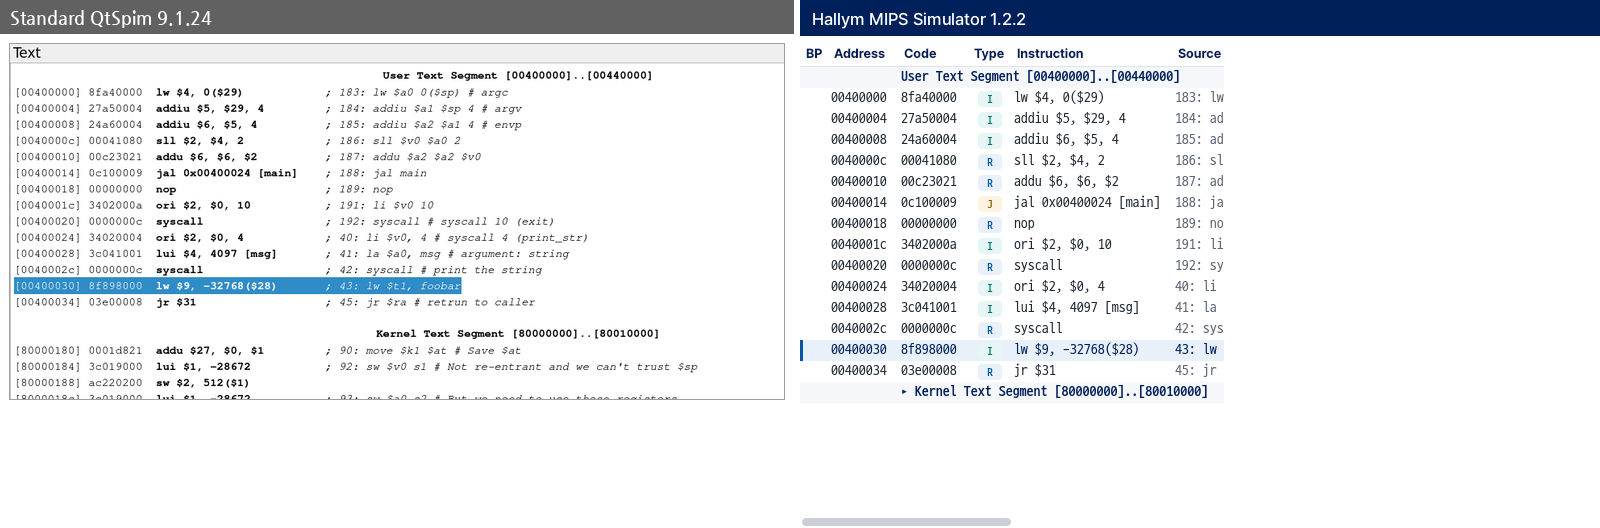
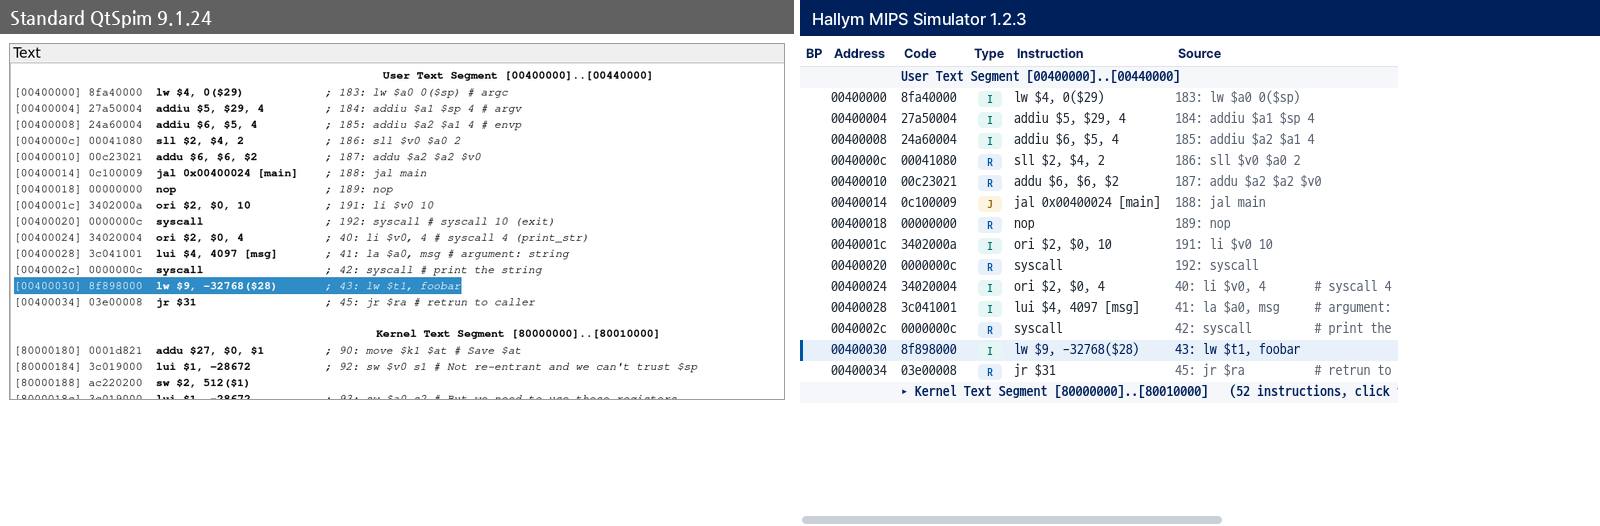
[H2] version 1.2.3
A step draws one position and repaints two rows, Reset starts the same
program again, the size chosen in Settings is kept, two arrangements, one
panel heading, and no panel can be squeezed away.  Captures and the two
message-pane goldens regenerated at the new version.

diff --git a/QtSpim/edu/edu_version.h b/QtSpim/edu/edu_version.h
@@ -19,7 +19,7 @@
 
 /* Version of this fork.  tools/package-windows.ps1 and the MSI read it from
    this line. */
-#define EDU_VERSION "1.2.2"
+#define EDU_VERSION "1.2.3"
 
 /* Product name shown to the user. */
 #define EDU_APP_NAME "Hallym MIPS Simulator"
